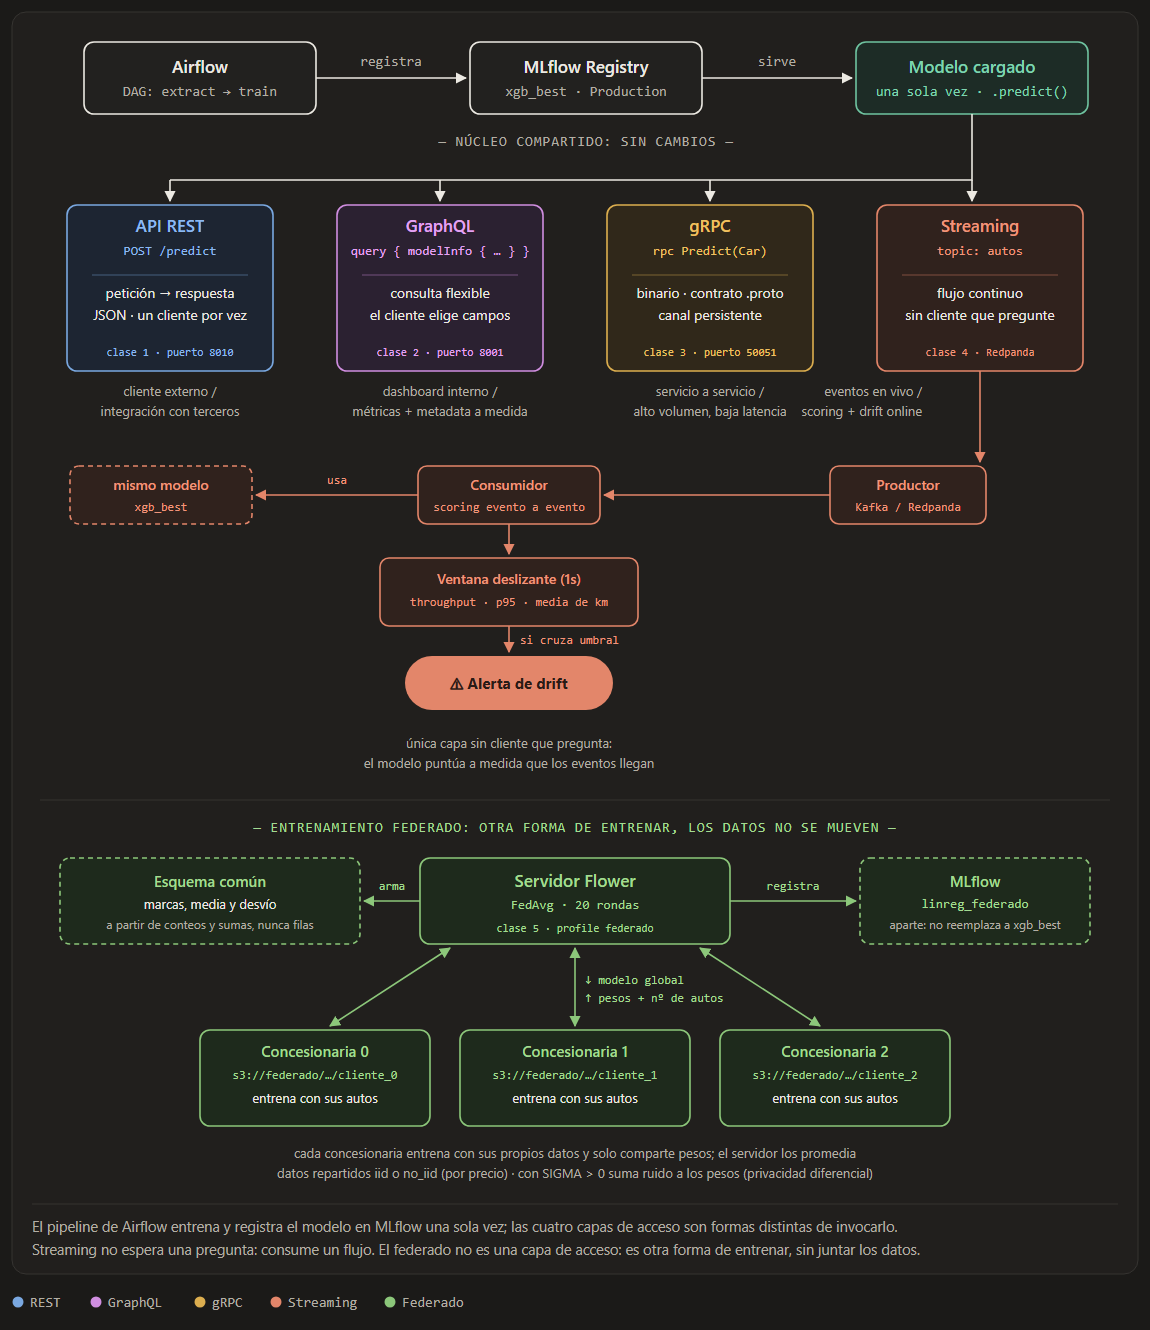
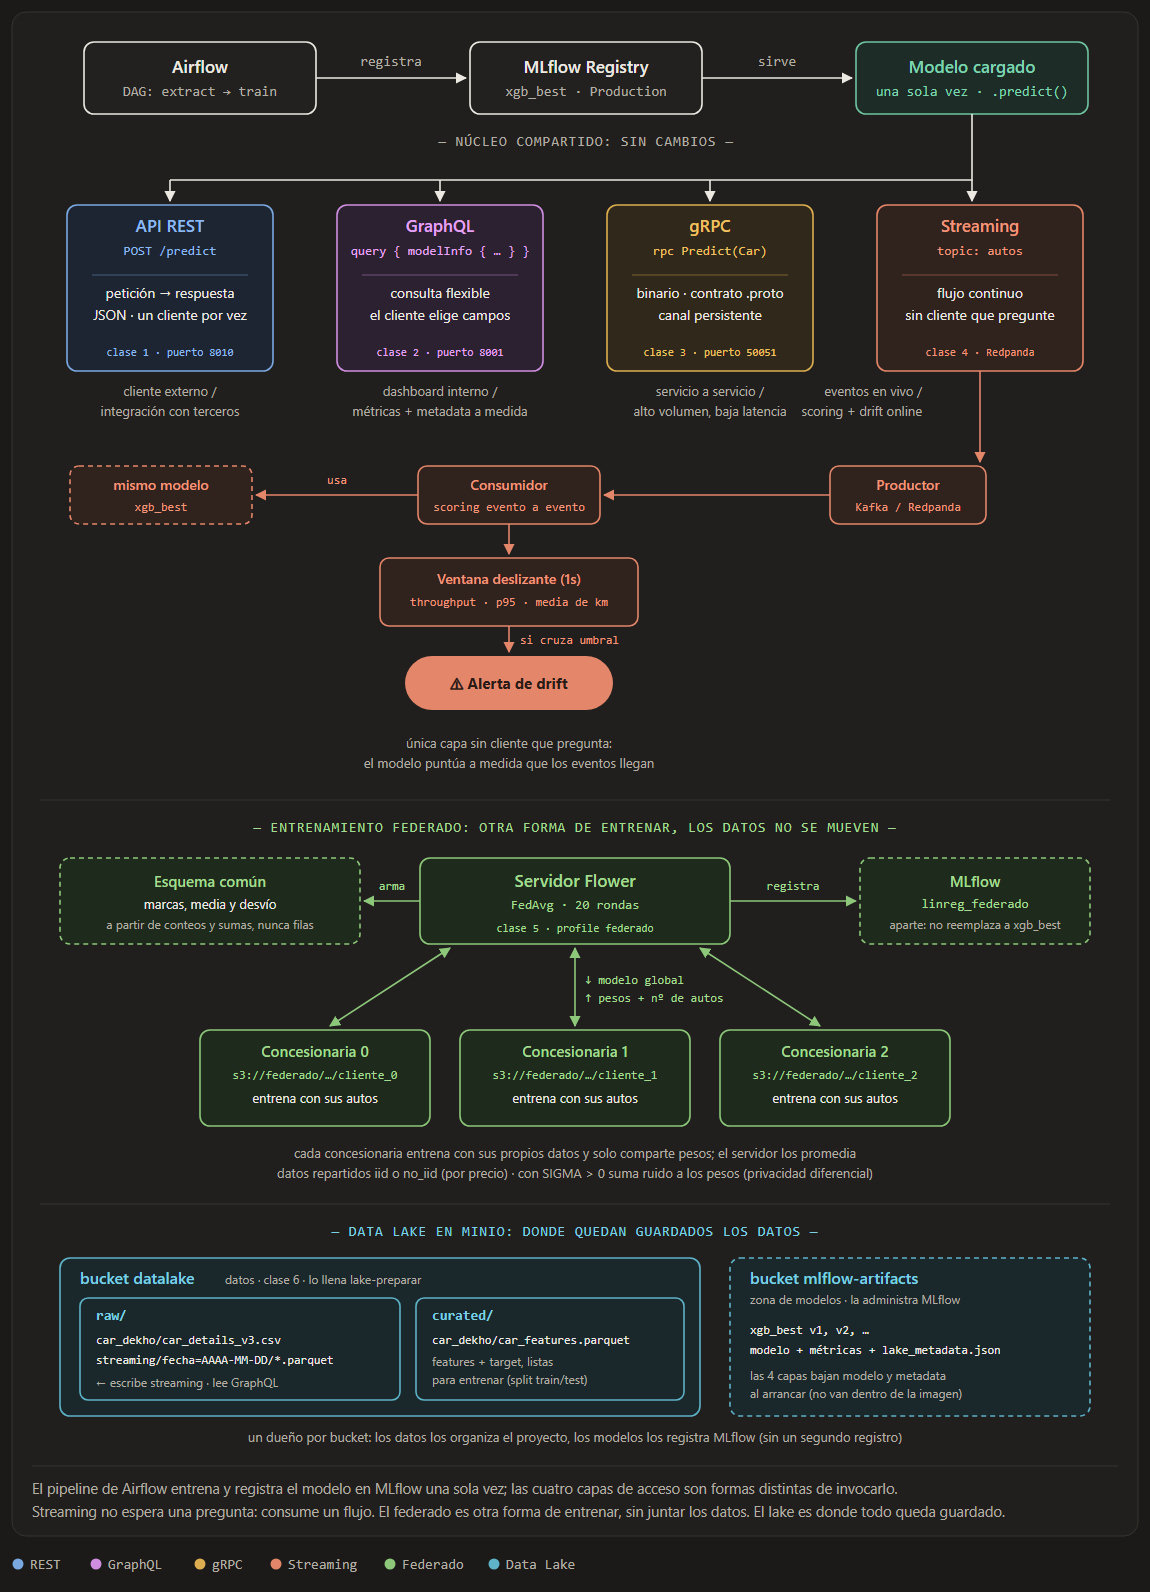
Clase 6 (paso 5): documentación y diagrama del Data Lake
README del proyecto (sección 5 y ajustes en 1-3), documento de diseño,
diagrama con la franja del lake (datalake + mlflow-artifacts) y estado
del README del repo (clases 1 a 6).

diff --git a/TP_Final/MLOps2_TP_Final/README.md b/TP_Final/MLOps2_TP_Final/README.md
@@ -1,25 +1,31 @@
-# Capas de acceso: REST · GraphQL · gRPC · Streaming (+ entrenamiento federado)
+# Capas de acceso: REST · GraphQL · gRPC · Streaming (+ entrenamiento federado y Data Lake)
 
 Implementación de [`Diseño de arquitectura.md`](./Diseño%20de%20arquitectura.md): cuatro formas de
 acceder al mismo modelo (`xgb_best`) del TP integrador (`../MLOps1_final`), una por cada mini-TP de
 la cursada. Ninguna capa reimplementa la carga ni el scoring del modelo — todas reusan
-`api/app/predict.py` y `common/` de `MLOps1_final` sin copiarlos.
+`api/app/predict.py` y `common/` de `MLOps1_final` sin copiarlos (desde la clase 6, con un
+`predict.py` de MLOps2 que solo cambia de dónde se lee la metadata del modelo, ver sección 5).
 
-Además incluye el **entrenamiento federado** de la clase 5 (sección 4): no es una capa de acceso
-sino otra forma de **entrenar** un modelo, sin juntar los datos en un solo lugar.
+Además incluye:
+- el **entrenamiento federado** de la clase 5 (sección 4): no es una capa de acceso sino otra
+  forma de **entrenar** un modelo, sin juntar los datos en un solo lugar;
+- el **Data Lake** de la clase 6 (sección 5): datos organizados por zonas en MinIO, la memoria
+  durable del streaming y MLflow como zona de modelos.
 
 | Capa | Puerto (esta carpeta) | Origen del código | Qué demuestra |
 |---|---|---|---|
-| **REST** | 8010 | `rest_service/` → mismo Dockerfile/código de `../MLOps1_final/api` (no se reimplementa) | petición → respuesta simple (`clase1/Practica/API_MLOPS2.ipynb`) |
+| **REST** | 8010 | `rest_service/` → mismo código de `../MLOps1_final/api` (no se reimplementa), Dockerfile propio | petición → respuesta simple (`clase1/Practica/API_MLOPS2.ipynb`) |
 | **GraphQL** | 8001 | `graphql_service/` | el cliente elige qué campos pedir (`clase2/.../mini_tp2_actividad.ipynb`) |
 | **gRPC** | 50051 | `grpc_service/` | contrato tipado + unary + server-streaming (`clase3/.../mini_tp3_actividad.ipynb`) |
 | **Streaming** | — (consume de Redpanda) | `streaming_service/` | scoring online + métricas por ventana + alerta de drift (`clase4/.../mini_tp4_actividad.ipynb`) |
 | **Federado** | — (interno, se corre a mano) | `federated_service/` | entrenar sin mover los datos: FedAvg con Flower, IID / non-IID / ruido (`clase5/mini_tp5_federado_actividad.ipynb`) |
+| **Data Lake** | — (MinIO, bucket `datalake`) | `datalake/` | zonas raw/curated, metadata del modelo en MLflow, streaming guardado en el lake (`clase6/mini_tp6_actividad.ipynb`) |
 
-> REST no es una capa nueva: reusa el mismo código y Dockerfile que ya existía en
-> `MLOps1_final/api`, solo expuesto acá en el puerto 8010 (no 8000) para poder levantar las 4
-> capas desde este único compose sin chocar de puerto si `MLOps1_final` también tiene su propia
-> API arriba a la vez. Ver [`rest_service/README.md`](./rest_service/README.md).
+> REST no es una capa nueva: reusa el mismo código que ya existía en `MLOps1_final/api`, solo
+> expuesto acá en el puerto 8010 (no 8000) para poder levantar las 4 capas desde este único
+> compose sin chocar de puerto si `MLOps1_final` también tiene su propia API arriba a la vez.
+> Tiene un Dockerfile propio solo para usar el `predict.py` de la clase 6.
+> Ver [`rest_service/README.md`](./rest_service/README.md).
 
 ## 1. Requisitos previos
 
@@ -31,6 +37,14 @@ servicio `api` de ese compose — esta carpeta construye su propia copia en el p
 cd ../MLOps1_final
 docker compose up -d postgres minio init-minio mlflow airflow-init airflow-webserver airflow-scheduler
 # disparar el DAG de entrenamiento una vez (UI de Airflow en :8080, o `scripts/smoke_test.sh`)
+```
+
+Después, preparar el Data Lake una vez (ver sección 5). Sin este paso las capas funcionan igual,
+pero calculan la metadata del modelo al arrancar, como en `MLOps1_final`:
+
+```bash
+cd ../MLOps2_TP_Final
+docker compose --profile lake run --rm lake-preparar
 ```
 
 ## 2. Levantar las cuatro capas
@@ -64,7 +78,7 @@ que `mlflow`/`minio` (`mlops-net` de `MLOps1_final`), sin duplicar esos servicio
 }'`
 (mismos endpoints y payload que `MLOps1_final/api`, ver su README).
 
-**GraphQL** — abrir `http://localhost:8001/graphql` (GraphiQL incluido) y correr alguno de estos dos queries:
+**GraphQL** — abrir `http://localhost:8001/graphql` (GraphiQL incluido) y correr alguno de estos queries:
 
 ```graphql
 query {
@@ -78,6 +92,14 @@ mutation {
     mileage: "23.4 kmpl", engine: "1248 CC", maxPower: "74 bhp",
     torque: "190Nm@ 2000rpm", seats: 5
   }) { predictedPrice modelVersion }
+}
+
+# clase 6: predicciones de streaming guardadas en el Data Lake (fecha por defecto: hoy, UTC)
+query {
+  prediccionesStreaming(limite: 5) {
+    fecha archivos total
+    items { name kmDriven predictedPrice modelVersion eventTime }
+  }
 }
 ```
 
@@ -97,7 +119,8 @@ docker compose logs -f streaming-consumer
 ```
 
 Los logs muestran throughput, p95 y la media de `km_driven` por ventana; a mitad de la corrida del
-productor debería aparecer `⚠ ALERTA DE DRIFT`.
+productor debería aparecer `⚠ ALERTA DE DRIFT`. Además, cada 500 eventos (o tras 10 s sin eventos)
+aparece `Lake: N eventos guardados en s3://datalake/raw/streaming/...` (clase 6).
 
 El pipeline de entrenamiento (Airflow), el registro del modelo (MLflow) y la lógica de
 preprocesamiento/scoring (`common/`, `api/app/predict.py`) son los mismos que en `MLOps1_final`.
@@ -179,3 +202,63 @@ La línea de base centralizada usa el mismo total de pasos de entrenamiento que 
 - El preprocesamiento se reusa de `common/` en lugar de estar copiado en el notebook.
 - En cada ronda participan **los 3 clientes**. En el mini TP participaban 2 de 5 elegidos al azar,
   y por eso allá la curva non-IID saltaba según qué clientes tocaban en cada ronda.
+
+## 5. Data Lake (clase 6)
+
+**Idea.** Un Data Lake es un lugar central y barato donde viven los datos de toda la plataforma,
+organizado por **zonas** para que no se vuelva un depósito desordenado. Acá se arma sobre el mismo
+MinIO de `MLOps1_final` (compatible con S3), con dos dueños claros:
+
+| Bucket | Qué guarda | Quién lo administra |
+|---|---|---|
+| `datalake` | **Datos**: zona `raw` (dataset crudo y eventos de streaming) y zona `curated` (features listas para entrenar, en Parquet) | este proyecto |
+| `mlflow-artifacts` | **Modelos**: cada versión de `xgb_best` con sus métricas y su metadata. Funciona como la zona de modelos del lake | MLflow |
+
+```
+datalake/
+├── raw/car_dekho/car_details_v3.csv              dataset crudo, tal cual
+├── raw/streaming/fecha=AAAA-MM-DD/lote-*.parquet  eventos + predicción + versión del modelo
+└── curated/car_dekho/car_features.parquet         features + target, con columna split train/test
+```
+
+**Por qué MLflow sigue siendo la fuente del modelo.** El Mini TP 6 guarda el modelo en el lake
+con un archivo `PRODUCTION` que dice qué versión usar. Este TP ya tiene MLflow, que hace eso mismo
+con más garantías (quién y cuándo cambió una versión, vínculo con su entrenamiento y métricas), y
+que **ya guarda los modelos en MinIO**. Tener un segundo registro solo agregaría el riesgo de que
+los dos digan cosas distintas. Las capas siguen sin llevar el modelo dentro de la imagen: lo bajan
+del lake (vía MLflow) al arrancar, que es la idea central de la clase 6.
+
+**Qué cambia en las capas.** Antes, cada capa al arrancar bajaba el dataset crudo y rehacía parte
+del preprocesamiento para saber las marcas principales y el orden de las columnas. Ahora esa
+**metadata** (`lake_metadata.json`) se guarda una vez en el mismo run de MLflow que el modelo, y las
+capas solo la leen. Se hace con una versión de MLOps2 de `predict.py`
+([`datalake/compartido/predict.py`](./datalake/compartido/predict.py)), con las mismas funciones,
+que reemplaza a la original al construir cada imagen: el código de las capas no cambia.
+
+| Contenedor / capa | Qué hace con el lake |
+|---|---|
+| `lake-preparar` | Crea el bucket y las zonas, copia el dataset crudo a `raw`, guarda las features en `curated` y agrega la metadata al run del modelo en Production. Se puede correr varias veces |
+| las 4 capas | Bajan el modelo de MLflow y leen su metadata del mismo run |
+| `streaming-consumer` | Guarda cada evento con su predicción en `raw/streaming/`, separado por fecha, por lotes de 500 (o tras 10 s sin eventos). Usa un grupo de consumidores, así al reiniciarse no repite eventos ya guardados |
+| `graphql` | La query `prediccionesStreaming` lee esos archivos del lake |
+
+**Cómo correrlo.** Con todo levantado (secciones 1 y 2):
+
+```bash
+docker compose --profile lake run --rm lake-preparar   # una vez, y después de cada entrenamiento nuevo
+docker compose restart                                 # para que las capas lean la metadata
+docker compose run --rm streaming-producer             # genera eventos que se guardan en el lake
+```
+
+En los logs de cada capa aparece `metadata leída de MLflow (lake_metadata.json)`. El contenido del
+lake se ve en la consola de MinIO (`http://localhost:9001`, bucket `datalake`).
+
+> **Si Airflow entrena una versión nueva**, su run todavía no tiene la metadata. Las capas funcionan
+> igual (la calculan como antes y lo avisan en el log) hasta que se vuelva a correr `lake-preparar`.
+
+**Diferencias con el mini TP 6:**
+- El modelo no se copia a una carpeta `models/` del lake: MLflow ya lo guarda en MinIO y sigue
+  siendo el registro de qué versión está en producción.
+- Además del modelo, el lake guarda los eventos de streaming, que antes se perdían al vencer la
+  retención de Redpanda.
+- El bucket es el del stack del TP (`minioadmin`), no el MinIO aparte del tutorial.

diff --git a/TP_Final/MLOps2_TP_Final/Diseño de arquitectura.md b/TP_Final/MLOps2_TP_Final/Diseño de arquitectura.md
@@ -8,9 +8,9 @@ El pipeline de entrenamiento y el modelo registrado (`xgb_best` en MLflow) no ca
 
 Arriba, el núcleo que no cambia: el pipeline de datos y entrenamiento, y el modelo servido desde el registry. Abajo, los cuatro caminos nuevos hacia ese núcleo — el protocolo y el patrón de tráfico cambian; el modelo detrás es siempre el mismo.
 
-![Diagrama de arquitectura: núcleo compartido (Airflow → MLflow Registry → Modelo cargado) con cuatro capas de acceso independientes — API REST, GraphQL, gRPC y Streaming — cada una con su patrón de tráfico y su tipo de cliente. La capa de Streaming se expande en su propio mecanismo: productor → consumidor → ventana deslizante → alerta de drift. Abajo, el entrenamiento federado: un servidor Flower que coordina rondas de FedAvg con tres concesionarias y registra el modelo aparte en MLflow.](diagrama-arquitectura.png)
+![Diagrama de arquitectura: núcleo compartido (Airflow → MLflow Registry → Modelo cargado) con cuatro capas de acceso independientes — API REST, GraphQL, gRPC y Streaming — cada una con su patrón de tráfico y su tipo de cliente. La capa de Streaming se expande en su propio mecanismo: productor → consumidor → ventana deslizante → alerta de drift. Abajo, el entrenamiento federado: un servidor Flower que coordina rondas de FedAvg con tres concesionarias y registra el modelo aparte en MLflow. Al final, el Data Lake en MinIO: el bucket datalake con las zonas raw y curated, y mlflow-artifacts como zona de modelos.](diagrama-arquitectura.png)
 
-*El pipeline de Airflow entrena y registra el modelo en MLflow una sola vez; las cuatro capas de abajo son formas distintas de invocarlo. Streaming es la excepción estructural: no espera una pregunta, consume un flujo y agrega métricas por ventana hasta disparar una alerta. El bloque de abajo no es una capa de acceso: es el entrenamiento federado de la clase 5.*
+*El pipeline de Airflow entrena y registra el modelo en MLflow una sola vez; las cuatro capas de abajo son formas distintas de invocarlo. Streaming es la excepción estructural: no espera una pregunta, consume un flujo y agrega métricas por ventana hasta disparar una alerta. Los bloques de abajo no son capas de acceso: el entrenamiento federado (clase 5) y el Data Lake donde quedan guardados los datos (clase 6).*
 
 ## Las cuatro capas, en detalle
 
@@ -72,13 +72,36 @@ ventas y no quiere (o no puede) compartirlos con las demás.
 
 `clase5/mini_tp5_federado_actividad.ipynb`
 
+## Data Lake (clase 6)
+
+**El piso común de la plataforma**
+*datos en reposo · zonas · un dueño por bucket*
+
+Las capas de arriba mueven datos (pedidos, eventos, pesos). El Data Lake es donde esos datos
+**quedan guardados**, organizados por zonas para no convertirse en un depósito desordenado. Se arma
+sobre el mismo MinIO del TP integrador:
+
+- **Bucket `datalake` (datos):** zona `raw` con el dataset crudo y los eventos de streaming, y zona
+  `curated` con las features listas para entrenar, en Parquet.
+- **Bucket `mlflow-artifacts` (modelos):** MLflow ya guardaba ahí cada versión de `xgb_best`.
+  Funciona como la zona de modelos del lake, y MLflow sigue siendo el registro de qué versión está
+  en producción. No se crea un segundo registro, para que no puedan contradecirse.
+- **Metadata del modelo:** las marcas principales y el orden de las columnas se guardan una vez en
+  el mismo run de MLflow que el modelo. Las capas la leen al arrancar en vez de recalcularla.
+- **Streaming con memoria:** el consumidor guarda cada evento con su predicción en `raw`, separado
+  por fecha. Redpanda borra los eventos al vencer la retención; el lake los conserva.
+- **GraphQL sobre el lake:** la query `prediccionesStreaming` lee esos archivos, usando el lake como
+  origen de verdad.
+
+`clase6/mini_tp6_actividad.ipynb`
+
 ## Diagrama
 
 El diagrama se edita en [`diagrama-arquitectura.svg`](./diagrama-arquitectura.svg) (texto, con
 comentarios de cómo sumar una clase nueva) y se exporta a PNG con Edge, desde esta carpeta:
 
 ```powershell
-& "C:\Program Files (x86)\Microsoft\Edge\Application\msedge.exe" --headless --disable-gpu --hide-scrollbars --window-size=1150,1330 --screenshot="$pwd\diagrama-arquitectura.png" "$pwd\diagrama-arquitectura.svg"
+& "C:\Program Files (x86)\Microsoft\Edge\Application\msedge.exe" --headless --disable-gpu --hide-scrollbars --window-size=1150,1592 --screenshot="$pwd\diagrama-arquitectura.png" "$pwd\diagrama-arquitectura.svg"
 ```
 
 Si se agranda el diagrama, cambiar `--window-size` por el nuevo ancho y alto del SVG.

diff --git a/README.md b/README.md
@@ -57,9 +57,11 @@ Ofrece **4 formas distintas de pedirle predicciones al mismo modelo**:
 
 Además incluye el **entrenamiento federado** de la clase 5: un servidor y 3 clientes en Docker, con Flower, que entrenan un modelo sin juntar los datos en un solo lugar.
 
+Y el **Data Lake** de la clase 6: un bucket en MinIO con zonas `raw` y `curated`, donde además quedan guardadas las predicciones de streaming. MLflow sigue siendo el registro de los modelos.
+
 - Todas usan el mismo código de predicción de MLOps 1, sin copiarlo.
 - Necesita que el stack de MLOps1_final esté corriendo y con el modelo ya entrenado.
 - Cómo levantarlo y probarlo: ver [TP_Final/MLOps2_TP_Final/README.md](TP_Final/MLOps2_TP_Final/README.md).
 - Diseño general: ver [Diseño de arquitectura.md](TP_Final/MLOps2_TP_Final/Diseño%20de%20arquitectura.md).
 
-> **Estado:** incluye lo visto en las clases 1 a 5. Lo de la clase 6 (Data Lake) **todavía no está agregado** al TP final.
+> **Estado:** incluye lo visto en las clases 1 a 6.
